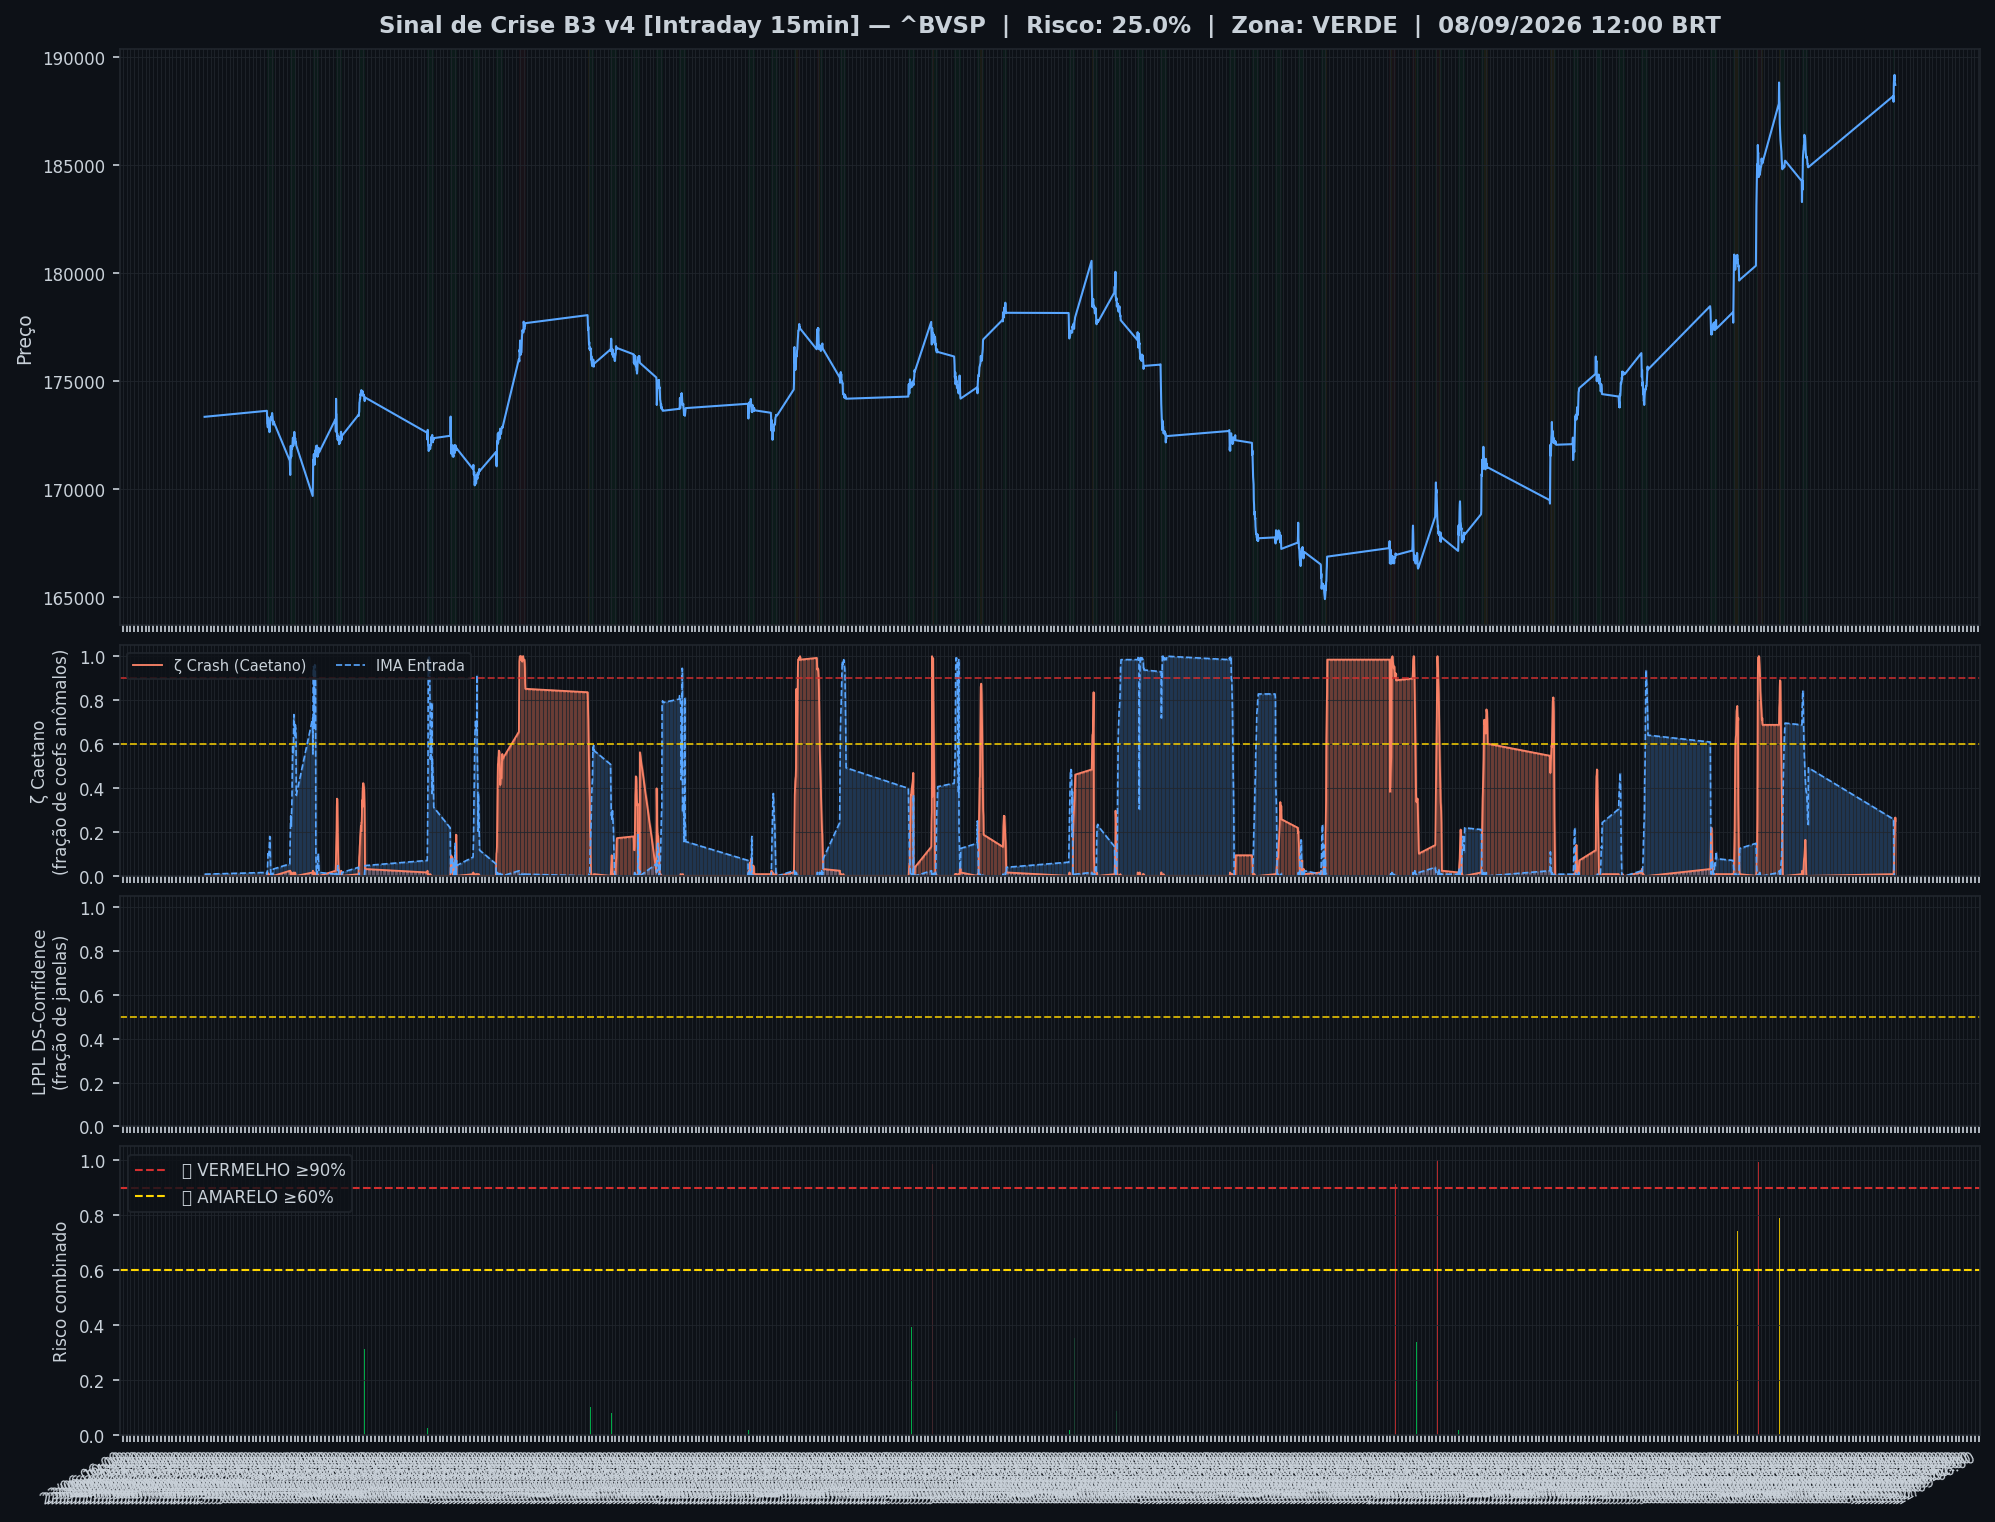
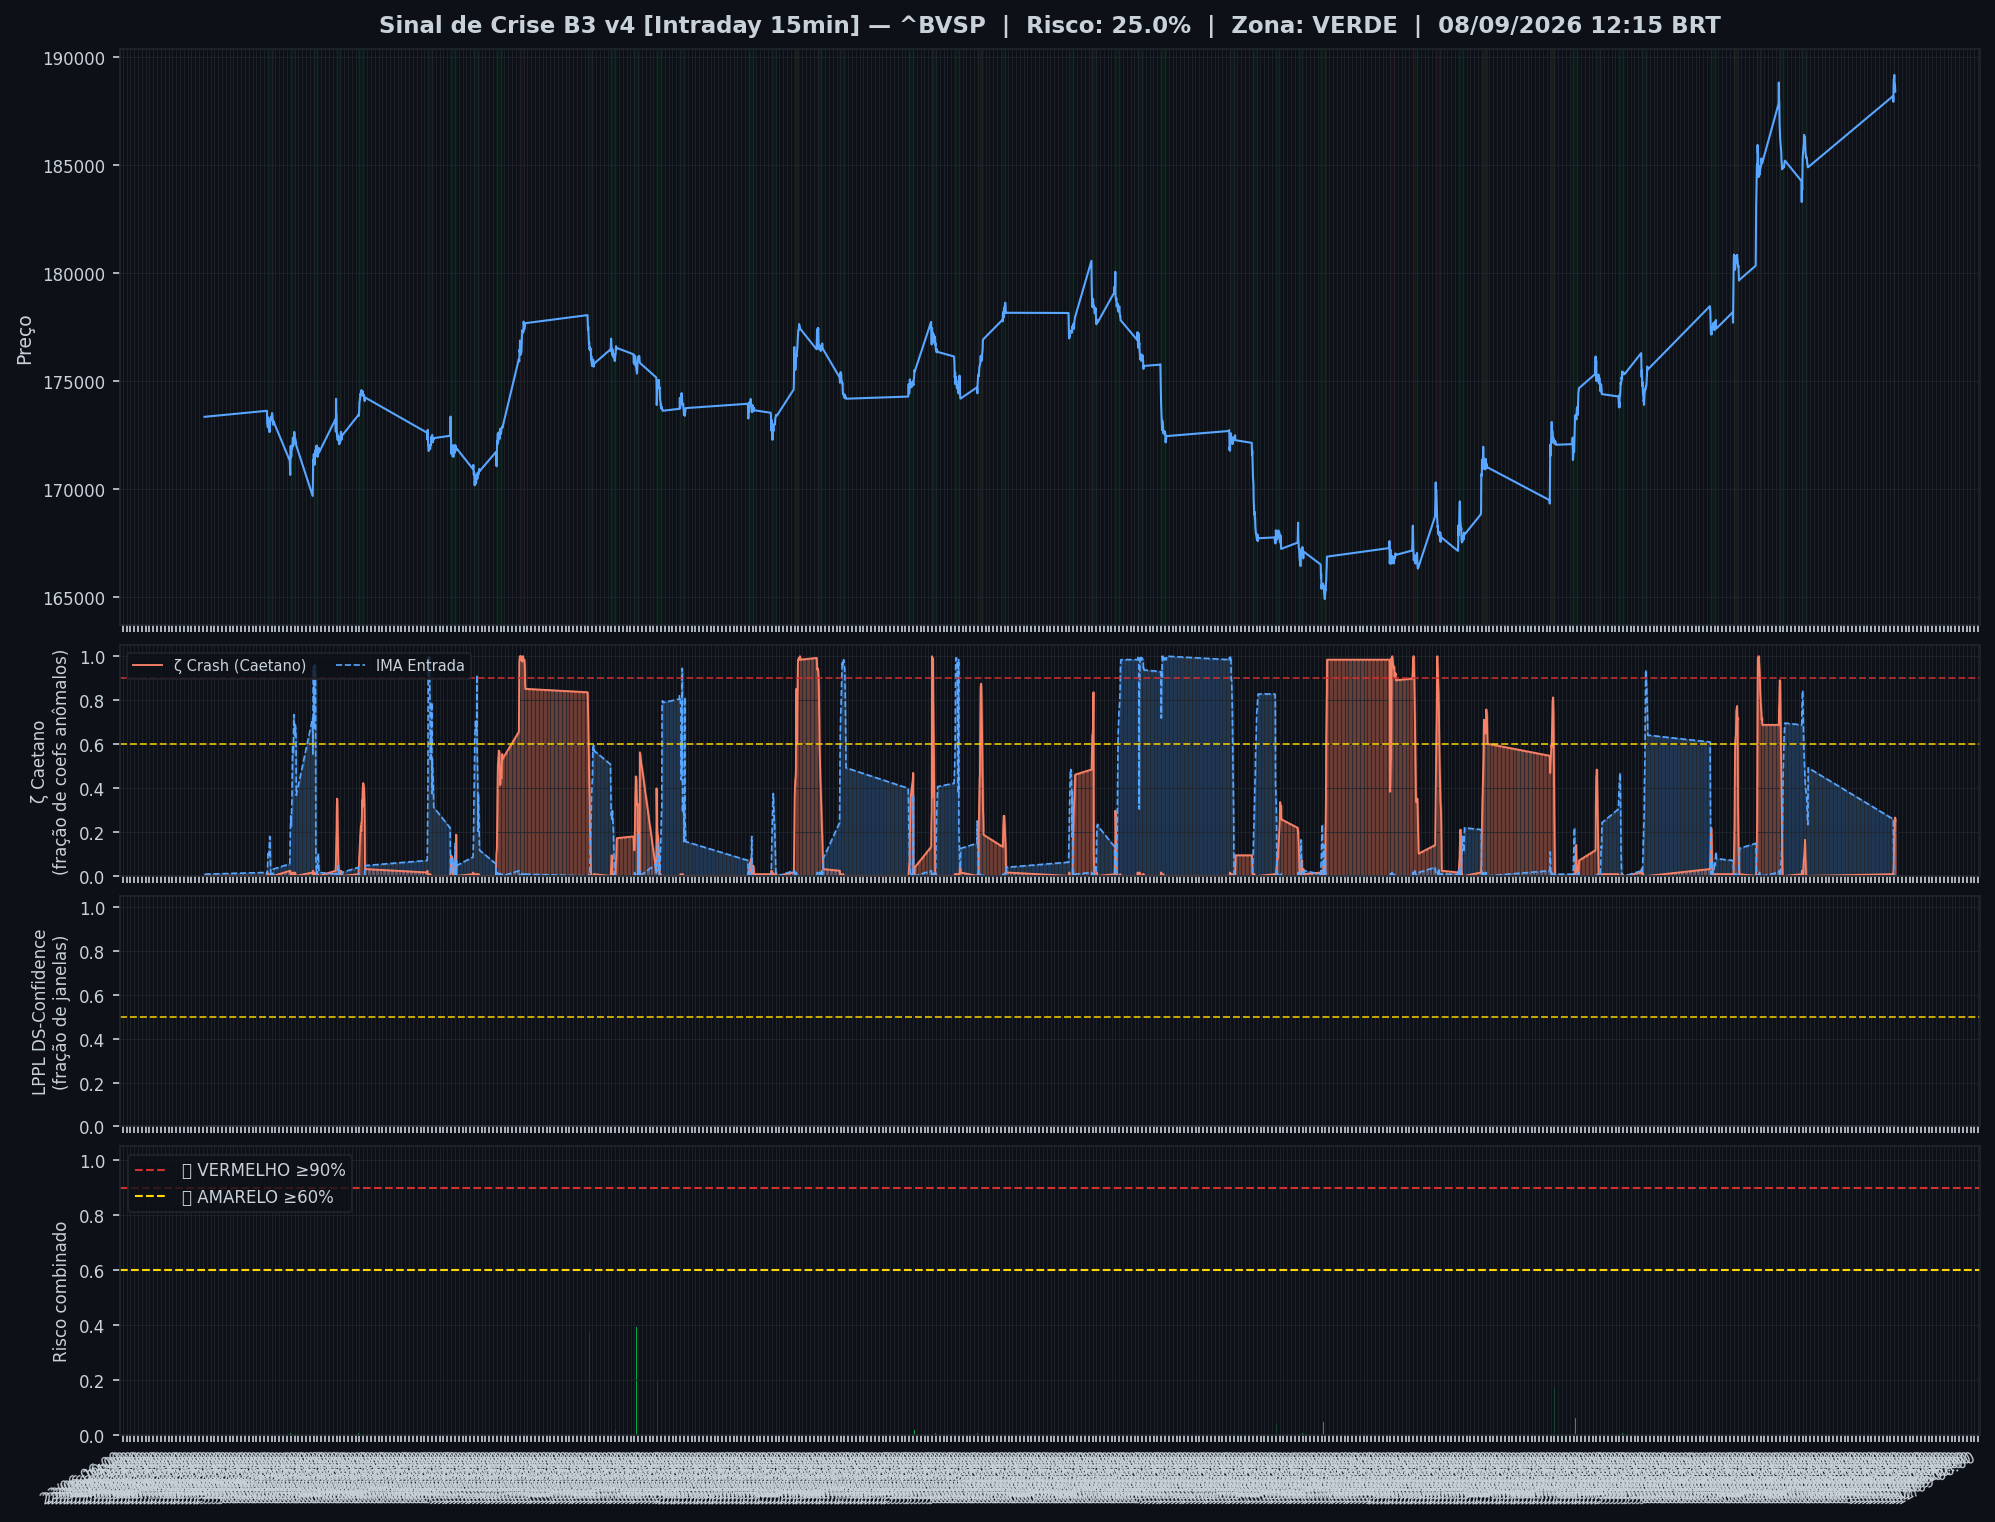
🤖 Auto: Sinal 08/09/2026 13:00

diff --git a/content/intraday/2026-09-08.md b/content/intraday/2026-09-08.md
@@ -1,10 +1,10 @@
 ---
-title: "🟢 Intraday 08/09/2026 12:00 BRT — VERDE"
+title: "🟢 Intraday 08/09/2026 12:15 BRT — VERDE"
 date: 2026-09-08
 tags: [intraday]
 ---
 
-> [!success] 🟢 **VERDE** — Risco 25% · ▼ -2 p.p. vs leitura anterior
+> [!success] 🟢 **VERDE** — Risco 25% · ＝ +0 p.p. vs leitura anterior
 > `█████░░░░░░░░░░░░░░░`
 > Mercado sem sinais relevantes de estresse.
 
@@ -14,7 +14,7 @@ tags: [intraday]
 | 🔴 ζ Crash — severidade da queda em curso | **25%** |
 | 🔵 ζ Entrada — estrutura de fundo | 0% |
 | 🫧 LPPL DS-Confidence | 0% |
-| 📊 Ibovespa | 188.707 pts |
+| 📊 Ibovespa | 188.392 pts |
 
 ![Gráfico do sinal](../graficos/sinal_intraday.png)
 
@@ -22,6 +22,7 @@ tags: [intraday]
 
 | Data | Zona | Risco | IMA Crash | Entrada | LPPL |
 |---|---|---|---|---|---|
+| 2026-09-08 12:15 | 🟢 VERDE | **25%** | 25% | 0% | 0% |
 | 2026-09-08 12:00 | 🟢 VERDE | **25%** | 25% | 0% | 0% |
 | 2026-09-08 11:45 | 🟢 VERDE | **27%** | 27% | 0% | 0% |
 | 2026-09-08 11:30 | 🟢 VERDE | **23%** | 23% | 0% | 0% |
@@ -51,7 +52,6 @@ tags: [intraday]
 | 2026-09-04 12:30 | 🟢 VERDE | **9%** | 9% | 55% | 0% |
 | 2026-09-04 12:15 | 🟢 VERDE | **8%** | 8% | 57% | 0% |
 | 2026-09-04 12:00 | 🟢 VERDE | **6%** | 6% | 62% | 0% |
-| 2026-09-04 11:45 | 🟢 VERDE | **4%** | 4% | 66% | 0% |
 
 ## Monitor Multi-Ativo
 
@@ -60,36 +60,36 @@ tags: [intraday]
 | Zona | Ativo | Setor | IMA Crash | IMA Entrada |
 |---|---|---|---|---|
 | 🟢 | **VALE** | Mineração | 0.0% | 97.7% |
-| 🟢 | **ITAUUNIBANCO** | Financeiro | 0.0% | 97.7% |
-| 🟢 | **PETROBRAS** | Petróleo | 0.0% | 97.7% |
-| 🟢 | **PETROBRAS** | Petróleo | 0.0% | 97.7% |
-| 🟢 | **AXIA ENERGIA** | Energia | 0.0% | 97.7% |
-| 🟢 | **SABESP** | Saneamento | 0.0% | 97.7% |
-| 🟢 | **BRADESCO** | Financeiro | 0.0% | 97.7% |
-| 🟢 | **B3** | Financeiro | 0.0% | 97.7% |
-| 🟢 | **ITAUSA** | Financeiro | 0.0% | 97.7% |
-| 🟢 | **WEG** | Industrial | 0.0% | 100.0% |
-| 🟢 | **BTGP BANCO** | Financeiro | 0.0% | 97.7% |
-| 🟢 | **EMBRAER** | Outros | 0.0% | 97.7% |
-| 🟢 | **BRASIL** | Financeiro | 0.0% | 97.7% |
-| 🟢 | **AMBEV S/A** | Consumo | 0.0% | 97.7% |
-| 🟢 | **ENEVA** | Energia | 0.0% | 97.7% |
-| 🟢 | **EQUATORIAL** | Energia | 0.0% | 97.7% |
-| 🟢 | **COPEL** | Energia | 0.0% | 97.7% |
-| 🟢 | **PRIO** | Petróleo | 0.0% | 97.7% |
-| 🟢 | **VIBRA** | Energia | 0.0% | 97.7% |
+| 🟢 | **ITAUUNIBANCO** | Financeiro | 0.0% | 95.3% |
+| 🟢 | **PETROBRAS** | Petróleo | 0.0% | 95.3% |
+| 🟢 | **PETROBRAS** | Petróleo | 0.0% | 95.3% |
+| 🟢 | **AXIA ENERGIA** | Energia | 0.0% | 95.3% |
+| 🟢 | **SABESP** | Saneamento | 0.0% | 95.3% |
+| 🟢 | **BRADESCO** | Financeiro | 0.0% | 95.3% |
+| 🟢 | **B3** | Financeiro | 0.0% | 95.3% |
+| 🟢 | **ITAUSA** | Financeiro | 0.0% | 95.3% |
+| 🟢 | **WEG** | Industrial | 0.0% | 95.3% |
+| 🟢 | **BTGP BANCO** | Financeiro | 0.0% | 95.3% |
+| 🟢 | **EMBRAER** | Outros | 0.0% | 95.3% |
+| 🟢 | **BRASIL** | Financeiro | 0.0% | 95.3% |
+| 🟢 | **AMBEV S/A** | Consumo | 0.0% | 95.3% |
+| 🟢 | **ENEVA** | Energia | 0.0% | 95.3% |
+| 🟢 | **EQUATORIAL** | Energia | 0.0% | 95.3% |
+| 🟢 | **COPEL** | Energia | 0.0% | 95.3% |
+| 🟢 | **PRIO** | Petróleo | 0.0% | 95.3% |
+| 🟢 | **VIBRA** | Energia | 0.0% | 95.3% |
 | 🟢 | **ULTRAPAR** | Outros | 0.0% | 97.7% |
-| 🟢 | **REDE D OR** | Saúde | 0.0% | 97.7% |
-| 🟢 | **LOCALIZA** | Aluguel | 0.0% | 97.7% |
-| 🟢 | **GERDAU** | Siderurgia | 0.0% | 97.7% |
-| 🟢 | **SUZANO S.A.** | Papel/Celulose | 0.0% | 97.7% |
-| 🟢 | **RAIADROGASIL** | Outros | 0.0% | 97.7% |
-| 🟢 | **BBSEGURIDADE** | Financeiro | 0.0% | 97.7% |
-| 🟢 | **USD/BRL** | Câmbio | 0.0% | 95.3% |
+| 🟢 | **REDE D OR** | Saúde | 0.0% | 95.3% |
+| 🟢 | **LOCALIZA** | Aluguel | 0.0% | 95.3% |
+| 🟢 | **GERDAU** | Siderurgia | 0.0% | 95.3% |
+| 🟢 | **SUZANO S.A.** | Papel/Celulose | 0.0% | 95.3% |
+| 🟢 | **RAIADROGASIL** | Outros | 0.0% | 95.3% |
+| 🟢 | **BBSEGURIDADE** | Financeiro | 0.0% | 95.3% |
+| 🟢 | **USD/BRL** | Câmbio | 0.0% | 90.6% |
 
 ![Monitor multi-ativo](../graficos/multi_intraday.png)
 
-*Página atualizada em 08/09/2026 12:45 BRT (leitura da barra de 2026-09-08 12:00 BRT).*
+*Página atualizada em 08/09/2026 13:00 BRT (leitura da barra de 2026-09-08 12:15 BRT).*
 
 > [!info]- Como interpretar (clique para expandir)
 > - **ζ Crash**: fração dos coeficientes wavelet acima do corte (Caetano & Yoneyama 2009). Escala absoluta: ζ=0,90 = 90% dos coeficientes anômalos — historicamente, quedas com ζ≥0,90 foram mais fundas e mais longas. **Mede a severidade do movimento em curso, não prevê o início da queda.**

diff --git a/content/index.md b/content/index.md
@@ -8,9 +8,9 @@ tags: [home]
 
 Monitoramento diário e intraday do Ibovespa — **IMA Wavelet** (Prof. Marco Antonio Leonel Caetano, ITA/INSPER) + **LPPL DS-Confidence** (Prof. Didier Sornette, ETH-Zurich).
 
-*Última atualização: 08/09/2026 12:45 BRT · ^BVSP · Intraday 15min · v4*
+*Última atualização: 08/09/2026 13:00 BRT · ^BVSP · Intraday 15min · v4*
 
-> [!success] 🟢 **VERDE** — Risco 25% · ▼ -2 p.p. vs leitura anterior
+> [!success] 🟢 **VERDE** — Risco 25% · ＝ +0 p.p. vs leitura anterior
 > `█████░░░░░░░░░░░░░░░`
 > Mercado sem sinais relevantes de estresse.
 
@@ -20,7 +20,7 @@ Monitoramento diário e intraday do Ibovespa — **IMA Wavelet** (Prof. Marco An
 | 🔴 ζ Crash — severidade da queda em curso | **25%** |
 | 🔵 ζ Entrada — estrutura de fundo | 0% |
 | 🫧 LPPL DS-Confidence | 0% |
-| 📊 Ibovespa | 188.707 pts |
+| 📊 Ibovespa | 188.392 pts |
 
 **Multi-ativo:** 0% em tensão (0🔴 0🟡 de 27 ativos)
 

diff --git a/content/historico.md b/content/historico.md
@@ -7,6 +7,7 @@ tags: [historico]
 
 | Data | Modo | Zona | Risco | IMA | LPPL |
 |---|---|---|---|---|---|
+| 2026-09-08 12:15 | intraday | 🟢 VERDE | 25% | 25% | 0% |
 | 2026-09-08 12:00 | intraday | 🟢 VERDE | 25% | 25% | 0% |
 | 2026-09-08 11:45 | intraday | 🟢 VERDE | 27% | 27% | 0% |
 | 2026-09-08 11:30 | intraday | 🟢 VERDE | 23% | 23% | 0% |
